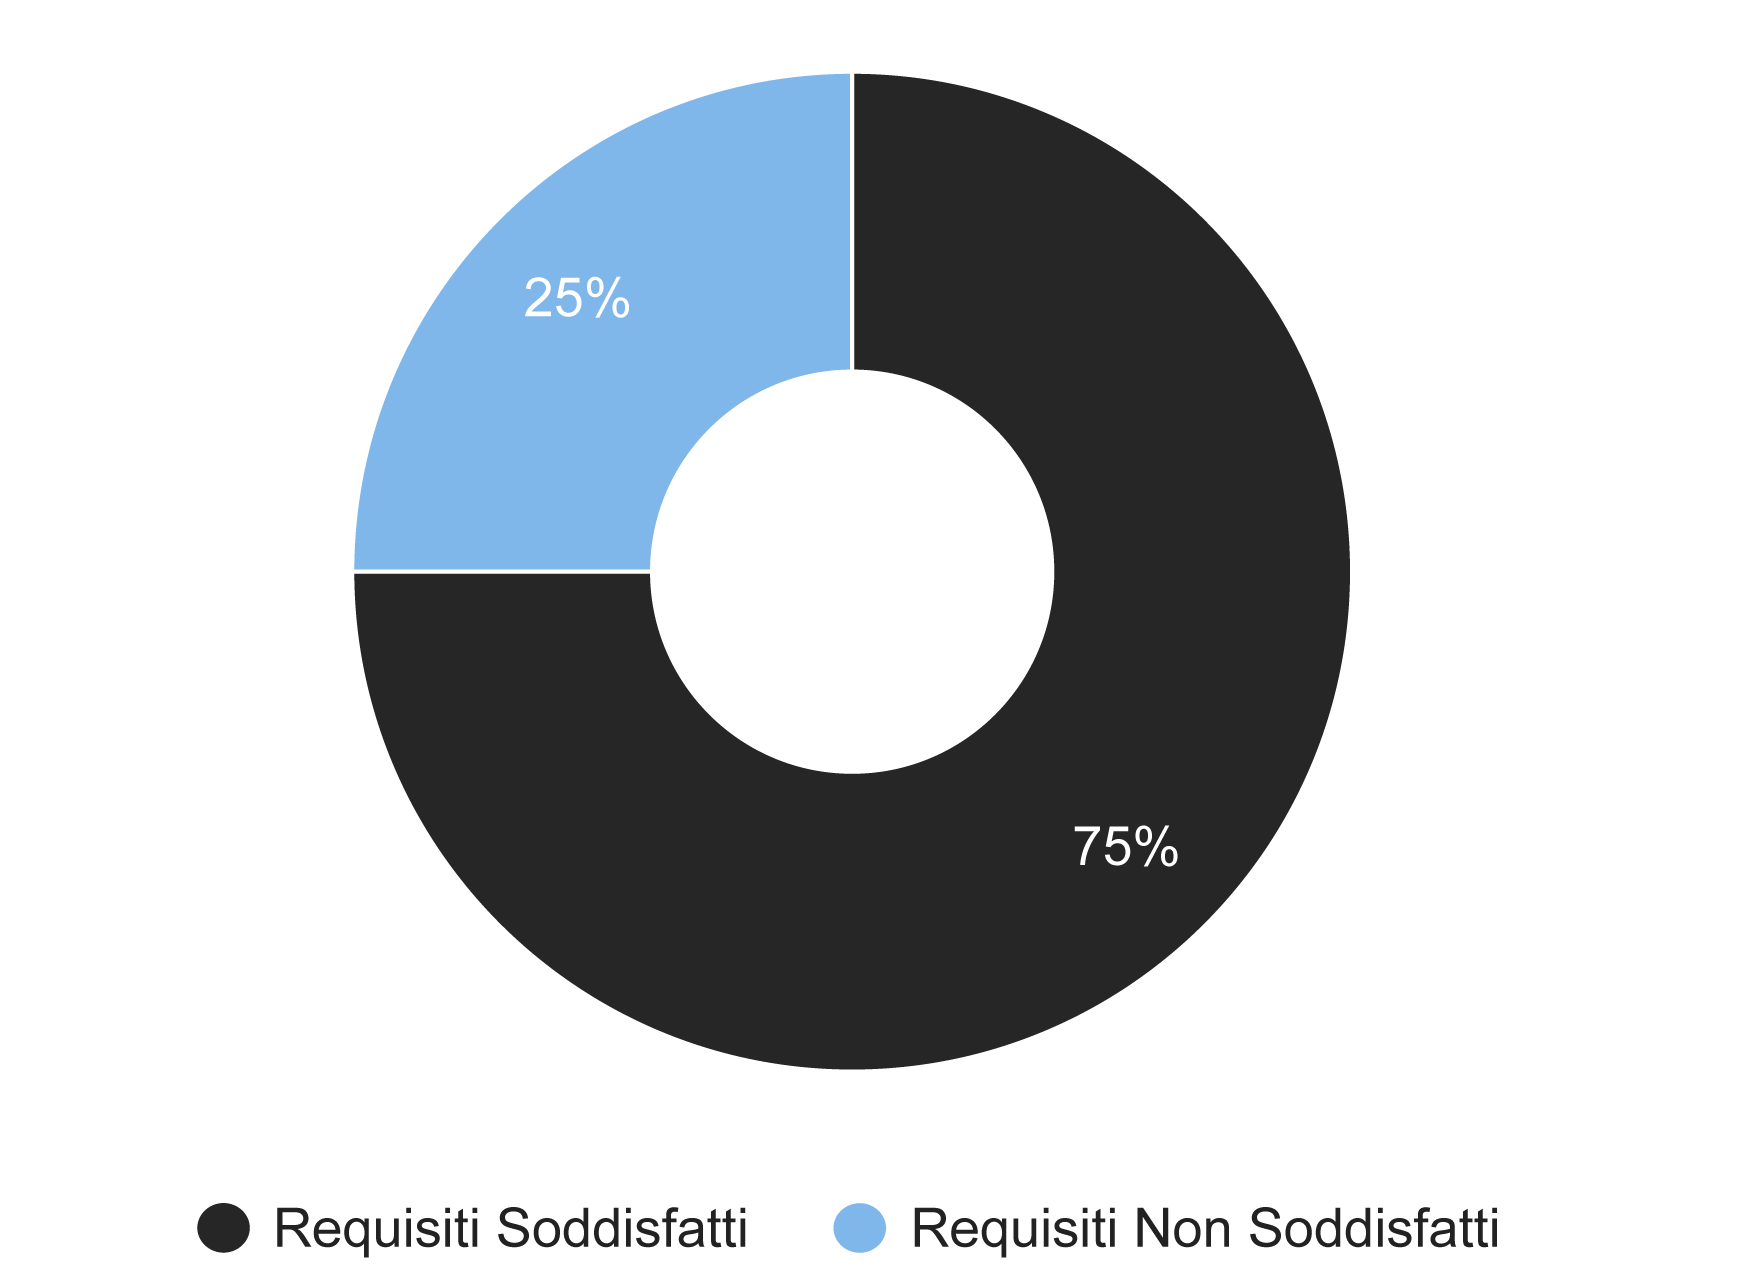
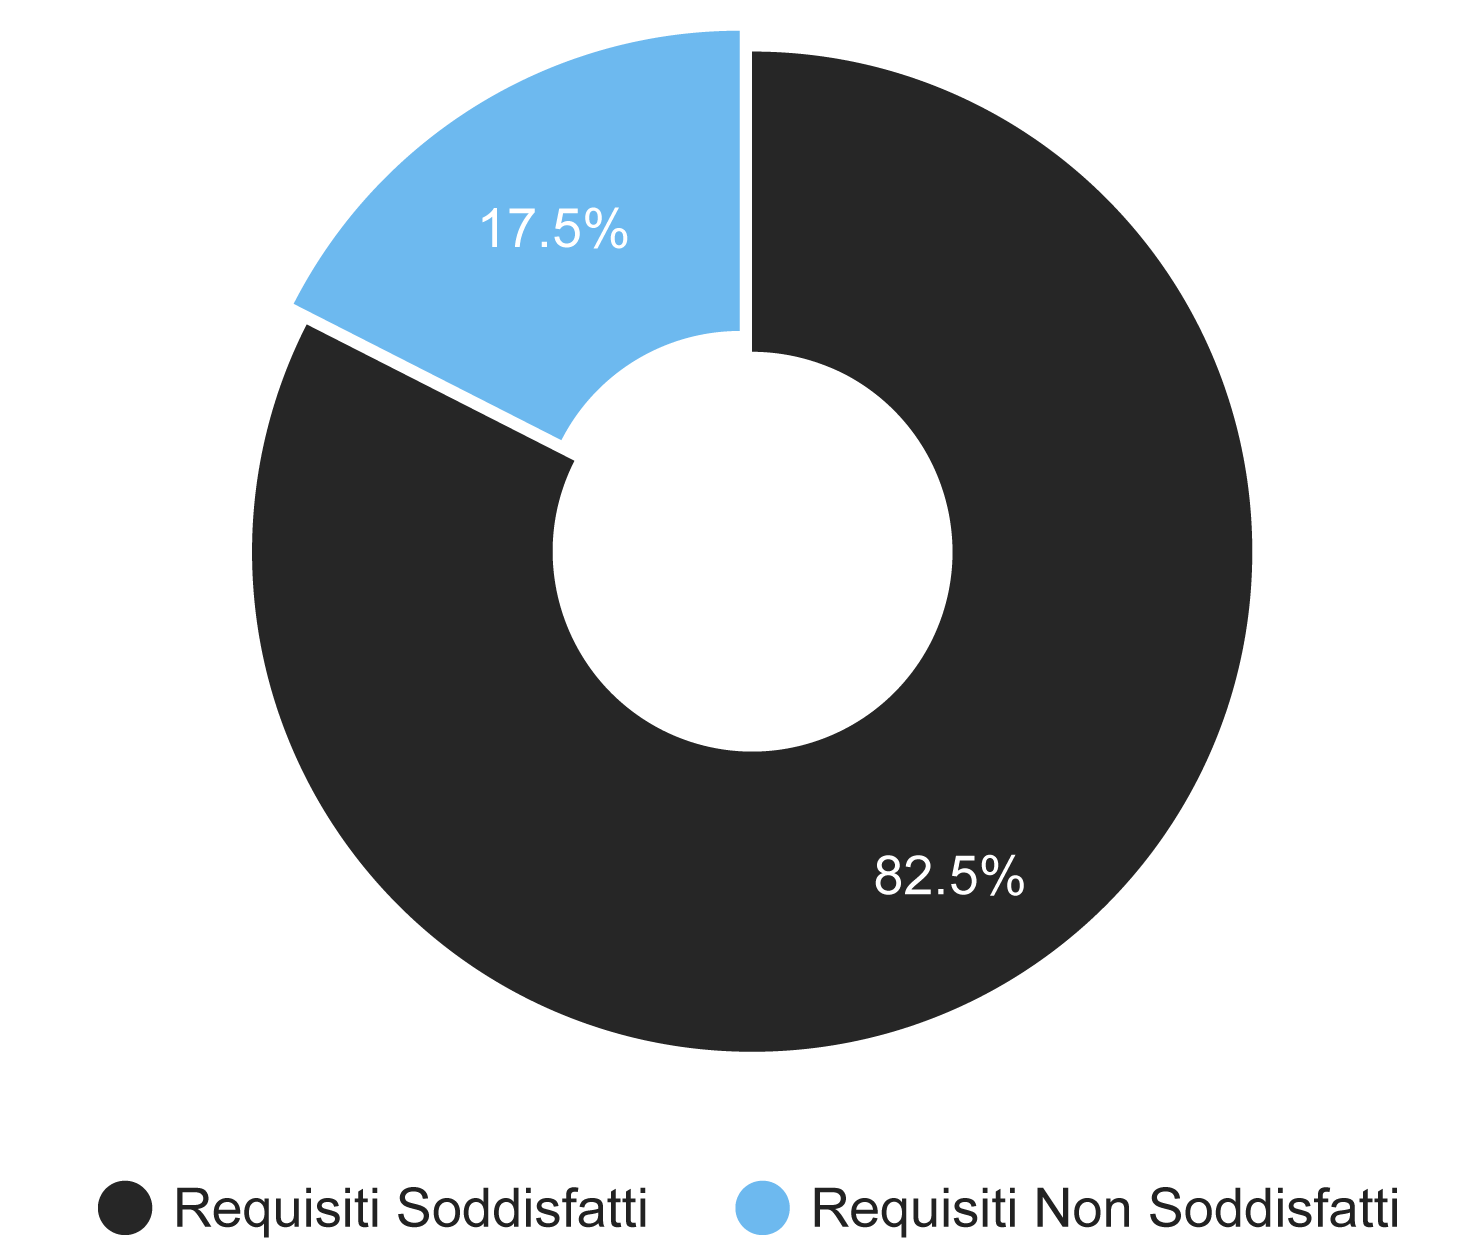
Aggiornata SA
Aggiornata SA (tracciamento requisiti soddisfatti + grafici a torta)

diff --git a/SpecificaArchitetturale/Contenuto/Sezioni/RequisitiSoddisfatti.tex b/SpecificaArchitetturale/Contenuto/Sezioni/RequisitiSoddisfatti.tex
@@ -53,11 +53,40 @@
 	
 	R1FW7.1 & \So \\
 
-	R1FW7.2 & \So \\
+	R1FW7.1.1 & \So \\
+
+	R1FW7.1.1.1 & \So \\
+
+	R1FW7.1.1.2 & \So \\
 	
-	R2FW7.3 & \So \\
+	R1FW7.1.1.3 & \So \\
+
+	R1FW7.1.1.4 & \So \\
 	
-	R2FW7.4 & \So \\		
+	R2FW7.1.1.5 & \Ns \\		
+	
+	R2FW7.1.1.6 & \Ns \\
+
+	R1FW7.1.2 & \So \\
+	
+	R1FW7.1.2.1 & \So \\
+	
+	R1FW7.1.2.2 & \So \\
+	
+	R1FW7.1.2.3 & \So \\
+	
+	R1FW7.1.2.4 & \So \\
+	
+	R1FW7.1.3 & \So \\		
+
+\end{tabular}
+\begin{tabular}[t]{ m{0.15\textwidth}<{\centering}  m{0.3\textwidth}<{\centering} }
+	\rowcolor{darkblue}
+	\textcolor{white}{\textbf{Fonte}} &\textcolor{white}{\textbf{Requisiti}}\\ 	
+
+	R1FW7.1.3.1 & \So \\
+	
+	R1FW7.1.3.2 & \So \\
 	
 	R1FW8 & \Ns \\		
 	
@@ -65,12 +94,7 @@
 	 
 	R1FW8.1 & \Ns \\	
 	
-	R2FW8.2 & \Ns \\
-
-\end{tabular}
-\begin{tabular}[t]{ m{0.15\textwidth}<{\centering}  m{0.3\textwidth}<{\centering} }
-	\rowcolor{darkblue}
-	\textcolor{white}{\textbf{Fonte}} &\textcolor{white}{\textbf{Requisiti}}\\ 	
+	R2FW8.2 & \Ns \\	 
 	 
 	R2FW8.3 & \Ns \\	
 	 
